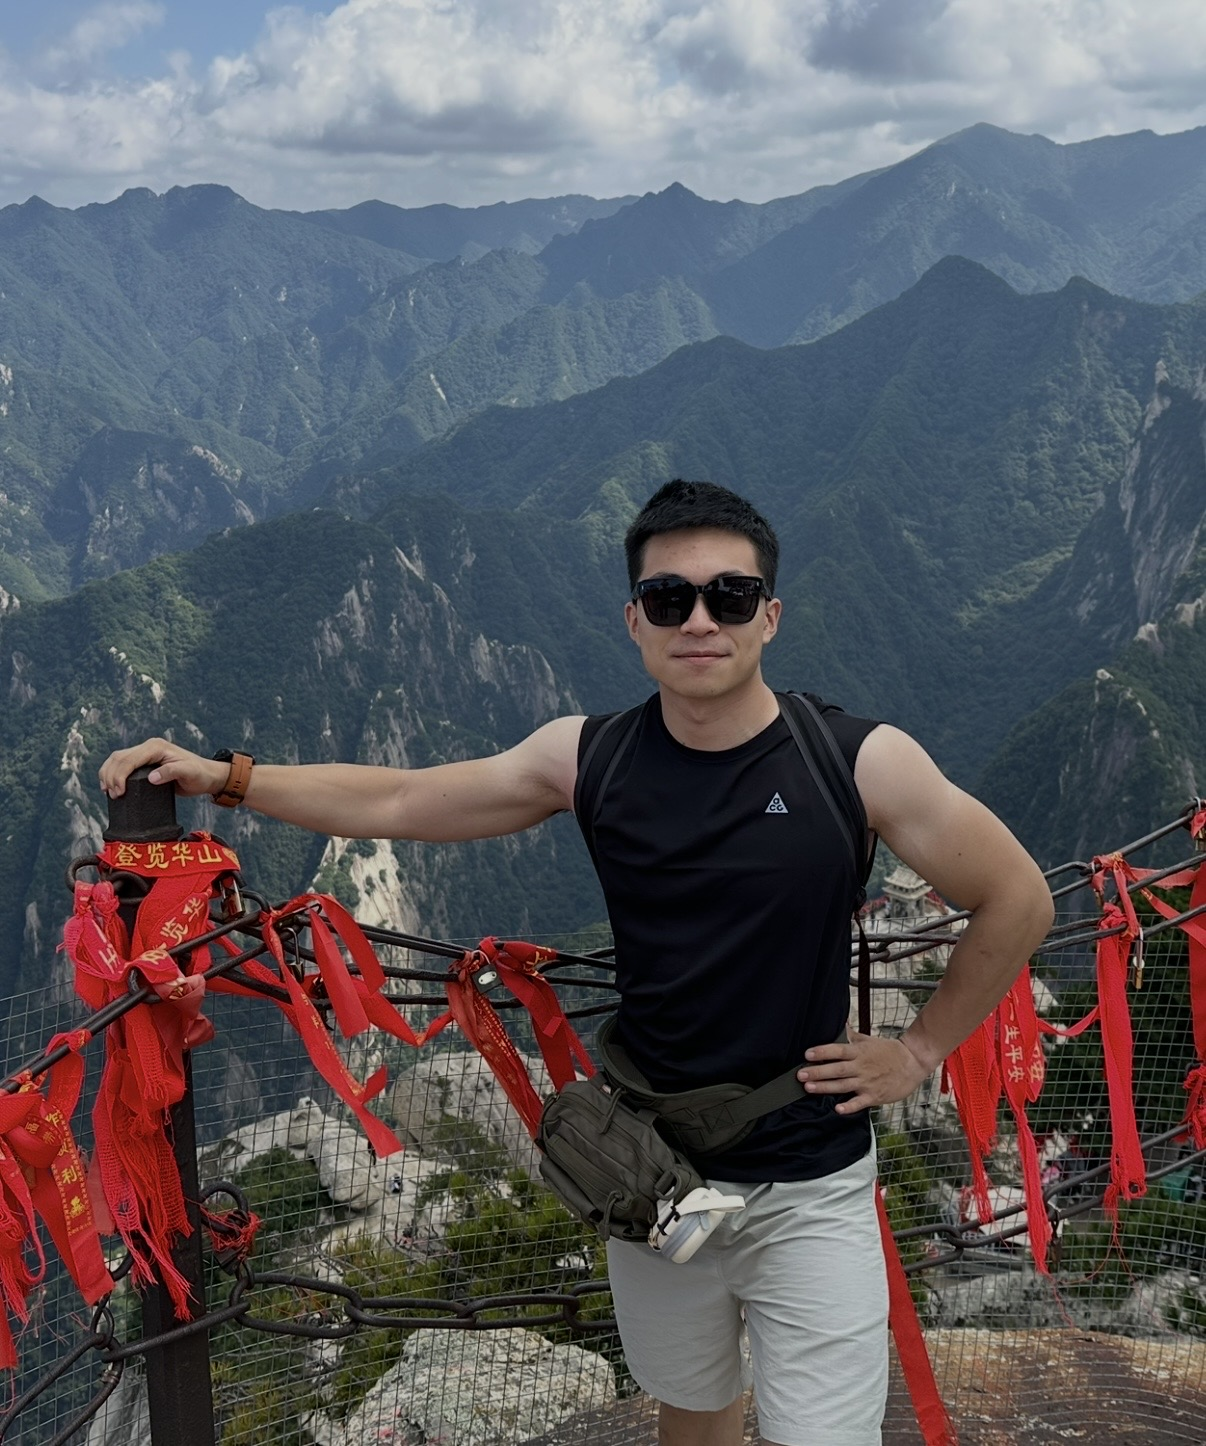
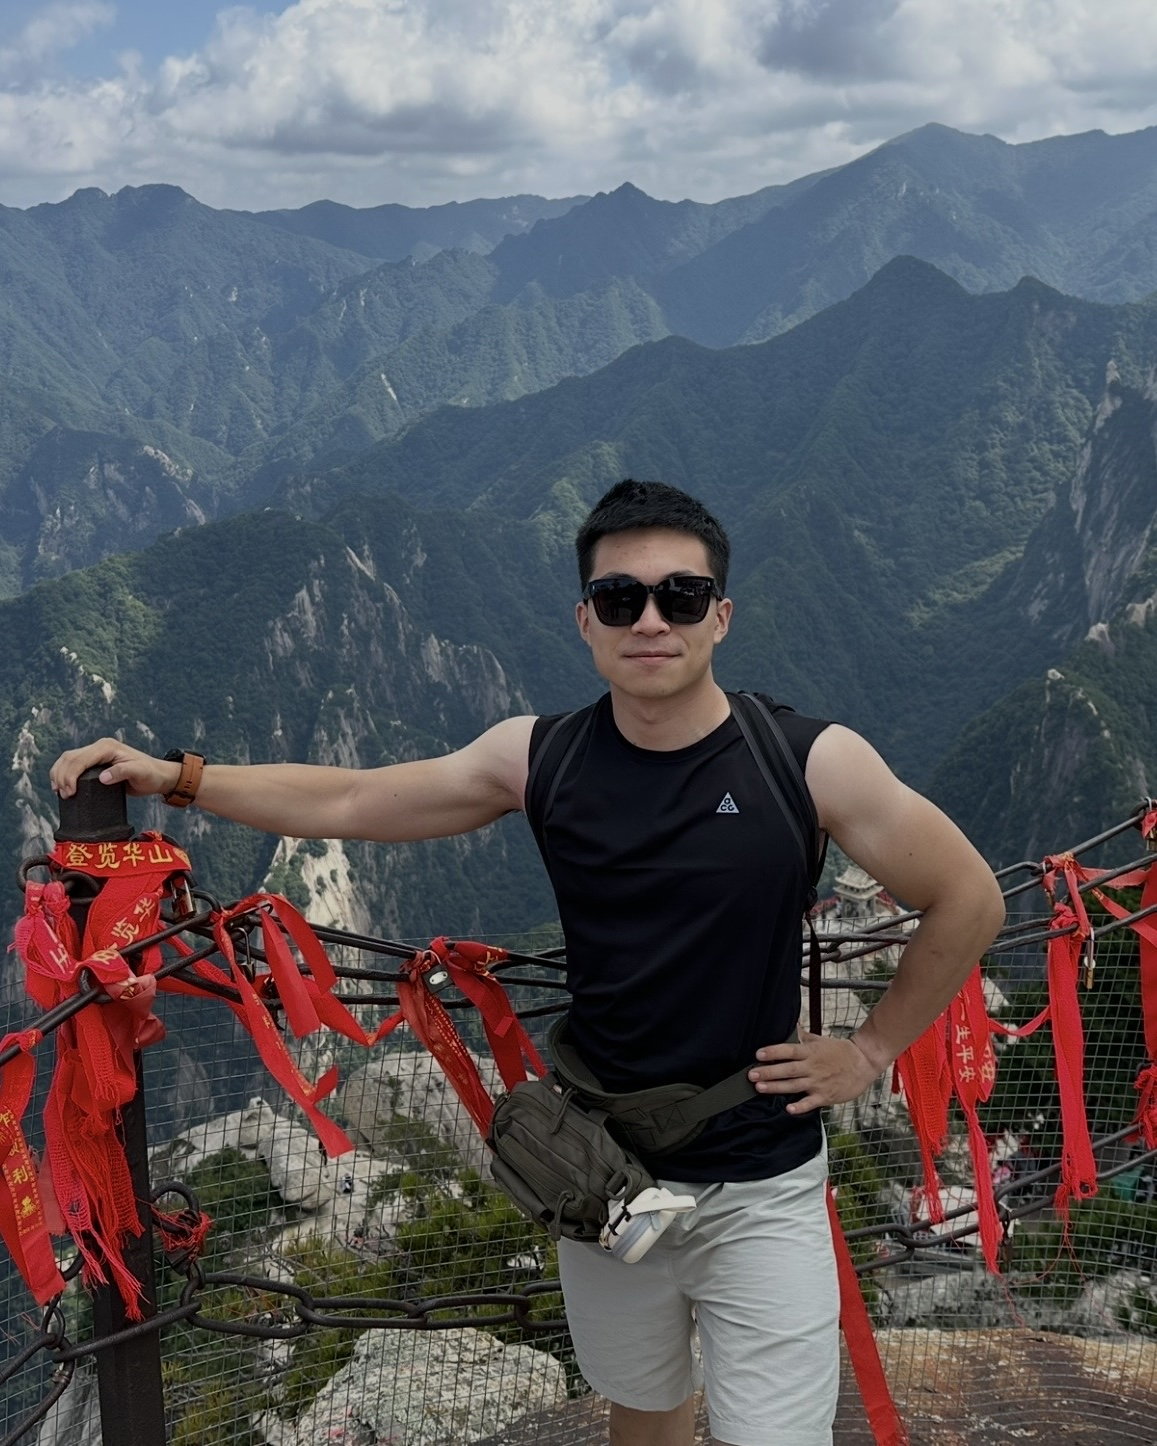
Update 'fun facts' page with new moments and images; replace outdated image formats with JPEGs for better compatibility.

diff --git a/_pages/fun_facts.md b/_pages/fun_facts.md
@@ -80,7 +80,6 @@ _styles: |
     %}
   </div>
   <div class="col-md-4 mb-4">
-  <p class="mb-1"><strong>2025 Spring</strong></p>
     <p class="mb-1">Chino Hills</p>
     {%
       include figure.liquid
@@ -93,6 +92,59 @@ _styles: |
     {%
       include figure.liquid
       path="assets/img/climb.png"
+      class="moments-fig"
+    %}
+  </div>
+</div>
+<p class="mb-1 mt-3"><strong>2026 Spring</strong></p>
+<div class="row mb-4">
+  <div class="col-md-4 mb-4">
+    <p class="mb-1">My first run in almost 2 years</p>
+    {%
+      include figure.liquid
+      path="assets/img/Run.jpeg"
+      class="moments-fig"
+    %}
+  </div>
+  <div class="col-md-4 mb-4">
+    <p class="mb-1">My first road bike and fitting</p>
+    {%
+      include figure.liquid
+      path="assets/img/Domane.jpg"
+      class="moments-fig"
+    %}
+  </div>
+  <div class="col-md-4 mb-4">
+    <p class="mb-1">My first 100km ride this year with my Domane</p>
+    {%
+      include figure.liquid
+      path="assets/img/ride.jpg"
+      class="moments-fig"
+    %}
+  </div>
+</div>
+<div class="row mb-4">
+  <div class="col-md-4 mb-4">
+    <p class="mb-1"><strong>2025 Summer</strong> — Mt. Baldy view 1</p>
+    {%
+      include figure.liquid
+      path="assets/img/peak.jpg"
+      class="moments-fig"
+    %}
+  </div>
+  <div class="col-md-4 mb-4">
+    <p class="mb-1"><strong>2025 Summer</strong> — Mt. Baldy view 2</p>
+    {%
+      include figure.liquid
+      path="assets/img/baldy.jpg"
+      class="moments-fig"
+    %}
+  </div>
+  <div class="col-md-4 mb-4">
+    <p class="mb-1"><strong>2025 Winter</strong> — SD sunset sea view during NeurIPS</p>
+    {%
+      include figure.liquid
+      path="assets/img/sun.jpg"
       class="moments-fig"
     %}
   </div>
